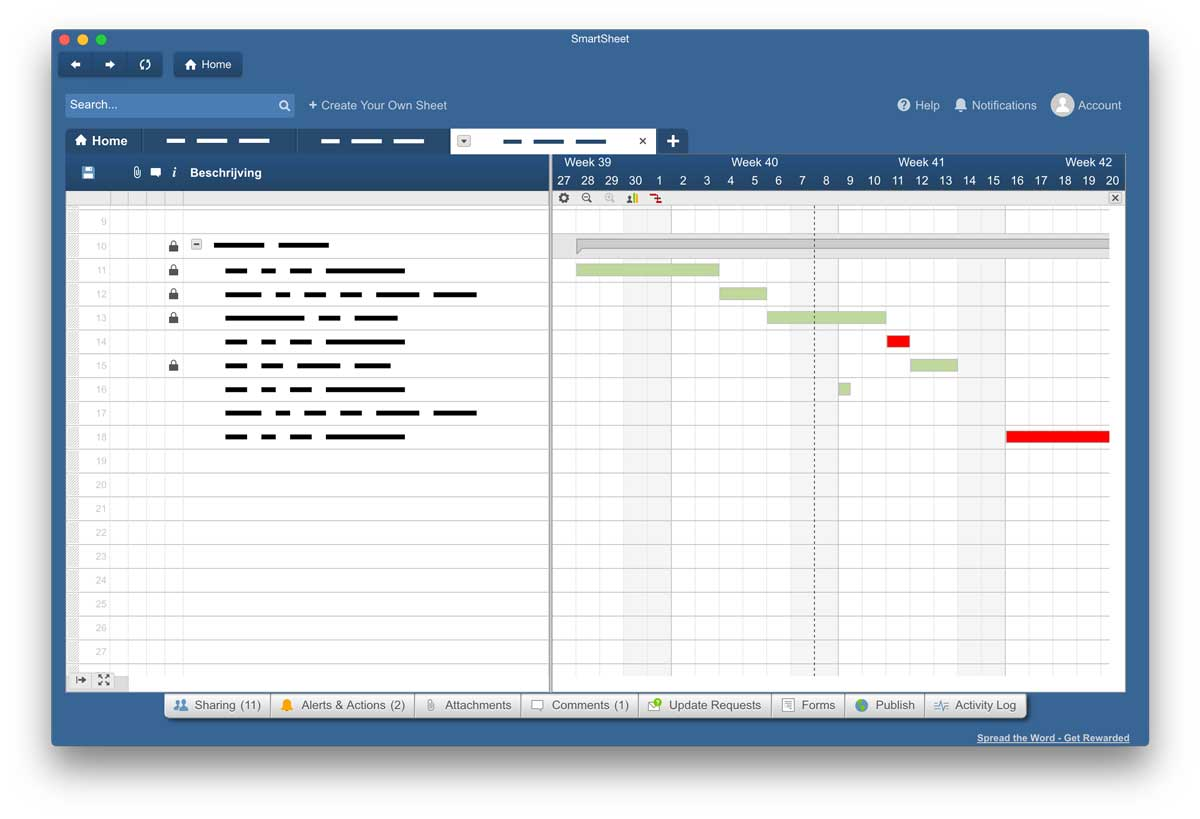
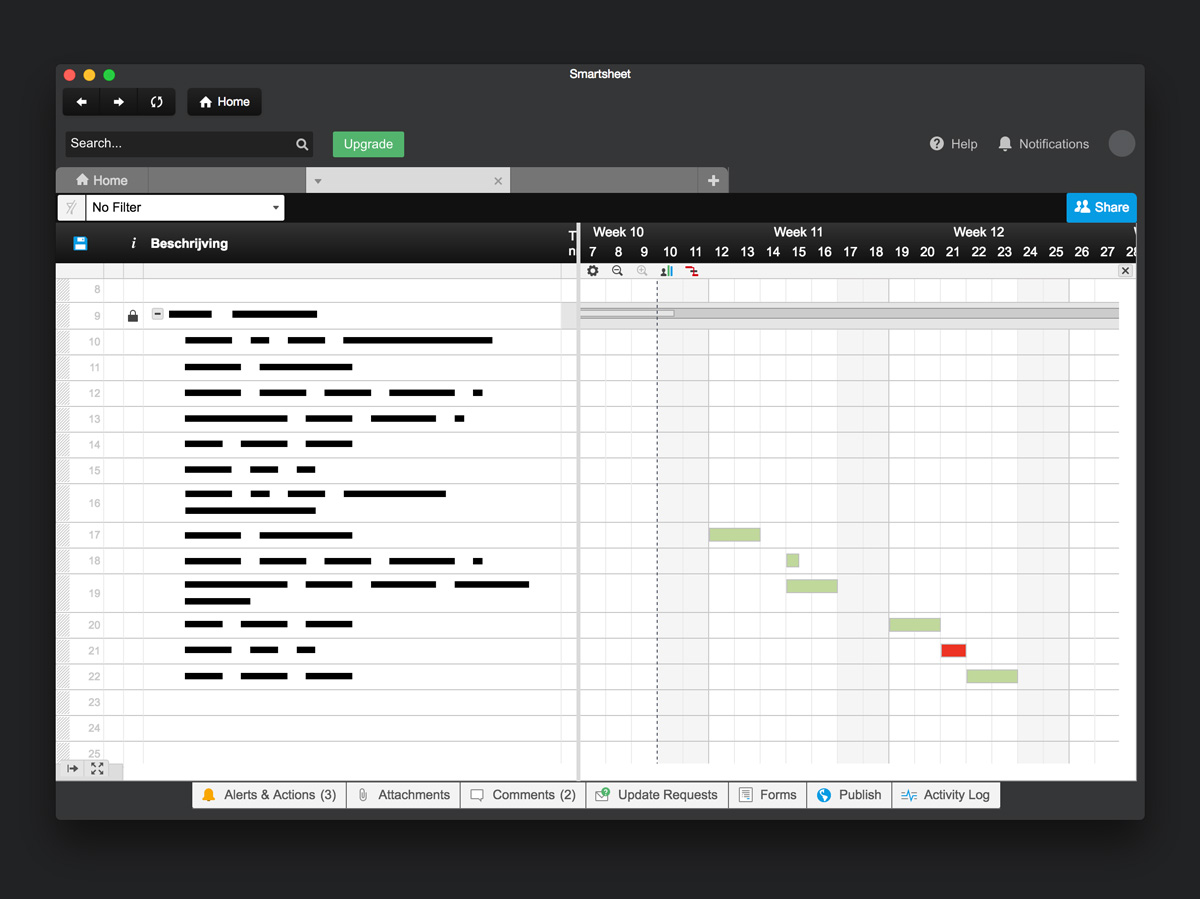
Add changes to the CSS to accomodate the new style

diff --git a/assets/overwrite.css b/assets/overwrite.css
@@ -1,5 +1,5 @@
 .clsBody {
-    background-color: #3a6693 !important;
+    background-color: #353637 !important;
 }
 
 #divPostFormInfo {
@@ -14,9 +14,6 @@
     display: none !important;
 }
 
-.clsDesktop.clsDesktopSheet {
-}
-
 .clsDesktopContent.clsDesktopBox {
     background: transparent !important;
     border: 0 !important;
@@ -26,17 +23,6 @@
 .clsDesktopBelowTabs {
     box-shadow: none !important;
     border: 0 !important;
-}
-
-.clsDesktopTabContent {
-    background: #294b6d !important;
-    border: 0 !important;
-    border-radius: 0 !important;
-}
-
-.clsDesktopTabActive .clsDesktopTabContent {
-    background: #fff !important;
-    color: #294b6d !important;
 }
 
 .clsDesktopTabs {
@@ -63,9 +49,14 @@
 }
 
 .clsTableHeadingBackground,
-.clsTableHeadingGradient {
-    background: linear-gradient(to bottom, #28527e, #264564) !important;
+.clsTableHeadingGradient,
+.clsTableHeading {
+    background: linear-gradient(to bottom, #333, #111) !important;
     border: 0 !important;
+}
+
+.clsTableHeading:hover {
+    background: linear-gradient(to bottom, #555, #333) !important;
 }
 
 .clsTableHeadingSeparator {
@@ -74,10 +65,53 @@
 }
 
 .clsSearchField {
-    background-color: #4c7eb1 !important;
+    background-color: #222 !important;
     border: 0 !important;
 }
 
 [data-client-id="ch3"] .clsGAW:last-child > div {
     display: none !important;
+}
+
+.clsDesktopTab.clsDesktopTabActive {
+    background-color: #fff;
+}
+
+.clsActionBar {
+    background-color: #111 !important;
+    border-top-right-radius: 5px !important;
+}
+
+.clsActionBar td:first-child {
+    padding: 2px !important;
+}
+
+.clsActionBar .clsButton.clsStandardButton {
+    height: 30px !important;
+}
+
+.clsTableHeading {
+    background: transparent;
+}
+
+.clsDesktopTab {
+    outline: none;
+}
+
+.clsGRB {
+    border-left: 0 !important;
+    border-right: 0 !important;
+}
+
+.clsNotificationItem {
+    margin-left: 0 !important;
+    margin-bottom: 0 !important;
+}
+
+.clsTableHeadingGradient + .clsGMO[style*="height: 1px"] {
+    display: none;
+}
+
+.clsTableHeadingGradient + .clsGMO[style*="height: 1px"] + .clsGMO[style*="height: 1px"] {
+    background-color: #222 !important;
 }

diff --git a/assets/browser.css b/assets/browser.css
@@ -9,7 +9,7 @@ body {
 }
 
 .toolbar {
-    background: #3a6693;
+    background: #353637;
     border: 0;
     box-shadow: none;
 }
@@ -19,14 +19,14 @@ body {
 }
 
 .toolbar .btn {
-    background: linear-gradient(to bottom, #28527e, #264564);
+    background: linear-gradient(to bottom, #222, #111);
     border: 0;
     box-shadow: 0 1px 4px rgba(0, 0, 0, .1);
     color: #fff;
 }
 
 .toolbar .btn:active {
-    background: linear-gradient(to bottom, #264564, #28527e);
+    background: linear-gradient(to bottom, #111, #222);
 }
 
 .toolbar .btn .icon {
@@ -34,5 +34,5 @@ body {
 }
 
 .btn-group .btn + .btn {
-    border-left-color: #264564;
+    border-left-color: #111;
 }
